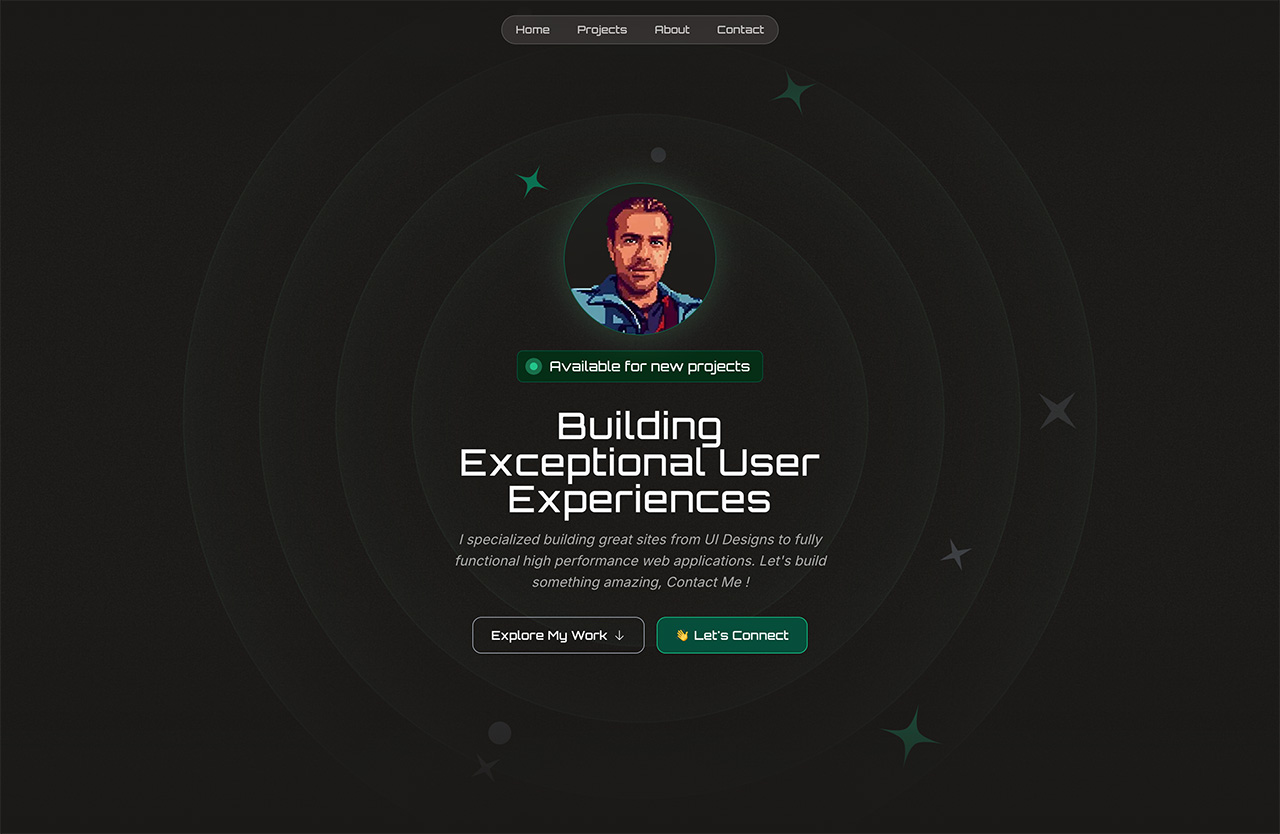
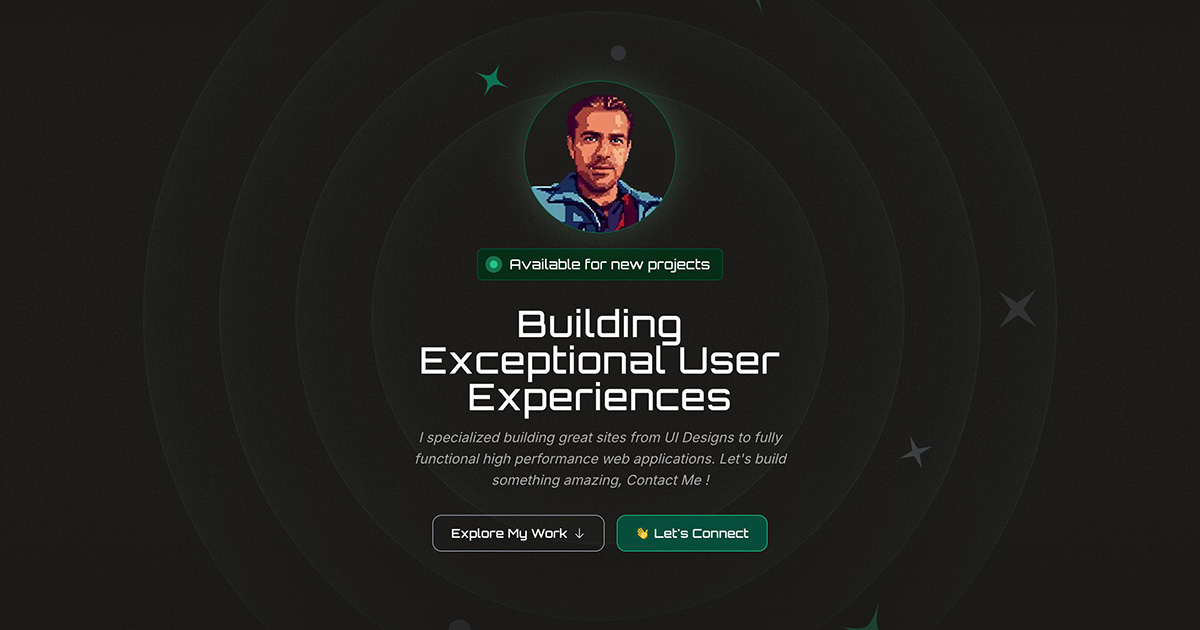
Changed Image Sizes

diff --git a/data/metadata.ts b/data/metadata.ts
@@ -3,10 +3,10 @@ import { Metadata } from "next/types";
 const mainMetadata: Metadata = {
   title: "Web Developer Portfolio",
   description: "Web developer portfolio made with Next.js",
-  generator: 'Next JS',
-  applicationName: 'Quantic Coders Portfolio',
-  referrer: 'origin-when-cross-origin',
-  keywords: ['Next.js', 'React', 'TypeScript'],
+  generator: "NextJS",
+  applicationName: "Quantic Coders Portfolio",
+  referrer: "origin-when-cross-origin",
+  keywords: ["Next.js", "React", "TypeScript"],
 
   openGraph: {
     title: "Web Developer Portfolio",
@@ -14,32 +14,37 @@ const mainMetadata: Metadata = {
     url: "https://qbix-portfolio.vercel.app/",
     images: [
       {
-        url: 'https://qbix-portfolio.vercel.app/images/qbix-portfolio-app-desktop.jpg',
+        url: "https://qbix-portfolio.vercel.app/images/qbix-portfolio-app-desktop.jpg",
         width: 1280,
-        height: 834,
+        height: 630,
       },
       {
-        url: 'https://qbix-portfolio.vercel.app/images/qbix-portfolio-app-tablet.jpg',
-        width: 1226,
-        height: 1500,
+        url: "https://qbix-portfolio.vercel.app/images/qbix-portfolio-app-tablet.jpg",
+        width: 800,
+        height: 600,
       },
       {
-        url: 'https://qbix-portfolio.vercel.app/images/qbix-portfolio-app-mobile.jpg',
-        width: 679,
-        height: 1220,
+        url: "https://qbix-portfolio.vercel.app/images/qbix-portfolio-app-mobile.jpg",
+        width: 600,
+        height: 900,
       },
     ],
     locale: "en_CA",
     type: "profile",
   },
   twitter: {
-    card: 'summary_large_image',
-    title: 'Web Developer Portfolio',
-    description: 'Web developer portfolio made with Next.js',
+    card: "summary_large_image",
+    title: "Web Developer Portfolio",
+    description: "Web developer portfolio made with Next.js",
     siteId: '@qbixmex',
-    creator: 'Daniel González',
+    creator: "Daniel González",
     images: [
-      'https://qbix-portfolio.vercel.app/images/qbix-portfolio-app-mobile.jpg'
+      {
+        url: "https://qbix-portfolio.vercel.app/images/qbix-portfolio-app-desktop.jpg",
+        width: 1200,
+        height: 630,
+        alt: "Desktop view of the Daniel's portfolio",
+      }
     ],
   },
 };
